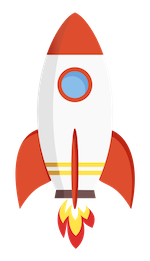
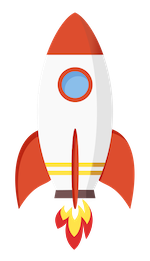
gamestart rocket animation

diff --git a/models.py b/models.py
@@ -2,6 +2,7 @@ import arcade.key
 from random import randint,random
 import time
 
+SPEED = 7
 
 class MenuChoiceSprite(arcade.AnimatedTimeSprite):
     def __init__(self, *args, **kwargs):
@@ -15,26 +16,45 @@ class MenuChoiceSprite(arcade.AnimatedTimeSprite):
     def unselect(self):
         self.is_select = False
 
-class Model:
-    def __init__(self, world, x, y, angle):
-        self.world = world
-        self.x = x
-        self.y = y
+class Cloud(arcade.Sprite):
+    INSTANCE_NUMBER = 0
+
+    def __init__(self, width, height, *args, **kwargs):
+        super().__init__(*args, **kwargs)
+        self.speed = SPEED
+        self.center_x = randint(0, width)
+        self.center_y = height + (self.INSTANCE_NUMBER * 10)
+
+        
 
 class Rocket(arcade.AnimatedTimeSprite):
+
     def __init__(self, x, y, *args, **kwargs):
         super().__init__(*args, **kwargs)
         self.center_x = x
         self.center_y = y
         self.health = 1000
+        self.is_ready = False
+        self.speed = SPEED
 
     def update(self):
         self.update_animation()
+        if self.is_ready == False:
+            self.move_up()
+
+    def ready(self):
+        self.is_ready = True
 
     def die(self):
         if self.health <= 0:
             return True
         return False
+
+    def move_up(self):
+        self.center_y += self.speed
+
+    def move_down(self):
+        self.center_y -= self.speed
 
 class World:
     STATE_FROZEN = 1
@@ -46,11 +66,23 @@ class World:
 
         self.rocket = None
         self.score = 0
+        self.altitude = 0
+        self.is_ready = False
 
         self.state = World.STATE_FROZEN
 
+        self.cloud_list = arcade.SpriteList()
+
     def start(self):
         self.state = World.STATE_STARTED
+
+    def check_start_pos(self):
+        if self.rocket.center_y >= self.height//2:
+            self.ready()
+            self.rocket.ready()
+
+    def ready(self):
+        self.is_ready = True
 
     def freeze(self):
         self.state = World.STATE_FROZEN     
@@ -62,7 +94,8 @@ class World:
         if self.state == World.STATE_FROZEN:
             return
         self.rocket.update()
-        # self.rocket.update_animation()
+        self.rocket.update_animation()
+        self.check_start_pos()
 
     def on_key_press(self, key, key_modifiers):
         if key == arcade.key.SPACE:

diff --git a/rockettyper.py b/rockettyper.py
@@ -74,10 +74,16 @@ class RocketTyperWindow(arcade.Window):
     def game_setup(self, width, height):
         self.world = World(width, height)
         
-        self.rocket_sprite = Rocket(100,200)                                        
-        self.rocket_sprite.append_texture(arcade.load_texture('images/rocket.png'))
+        self.rocket_sprite = Rocket(140,-120)                                        
+        self.rocket_sprite.append_texture(arcade.load_texture('images/rocket6.png'))
+        self.rocket_sprite.append_texture(arcade.load_texture('images/rocket5.png'))
+        self.rocket_sprite.append_texture(arcade.load_texture('images/rocket4.png'))
+        self.rocket_sprite.append_texture(arcade.load_texture('images/rocket3.png'))
+        self.rocket_sprite.append_texture(arcade.load_texture('images/rocket2.png'))
         self.rocket_sprite.append_texture(arcade.load_texture('images/rocket1.png'))
+        self.rocket_sprite.append_texture(arcade.load_texture('images/rocket.png'))
         self.rocket_sprite.set_texture(0)
+        self.rocket_sprite.texture_change_frames = 8
 
         self.world.rocket = self.rocket_sprite
 
@@ -120,6 +126,7 @@ class RocketTyperWindow(arcade.Window):
         self.choice_list[self.selecting_choice].select()
 
     def on_key_press(self, key, key_modifiers):
+
         if self.current_route == routes['menu']:
             if key == arcade.key.DOWN:
                 if self.selecting_choice < 2:
@@ -135,6 +142,20 @@ class RocketTyperWindow(arcade.Window):
                 self.update_selected_choice()
             elif key == arcade.key.ENTER:
                 self.current_route = routes[choices[self.selecting_choice]]
+                if self.current_route == routes['game']:
+                    self.world.start()
+        elif self.current_route == routes['game']:
+            if key == arcade.key.DOWN:
+                self.world.rocket.move_down()
+            elif key == arcade.key.UP:
+                self.world.rocket.move_up()
+            elif key == arcade.key.P:
+                if self.world.is_started():
+                    self.world.freeze()
+                else:
+                    self.world.start()
+
+
 
 
 if __name__ == '__main__':
